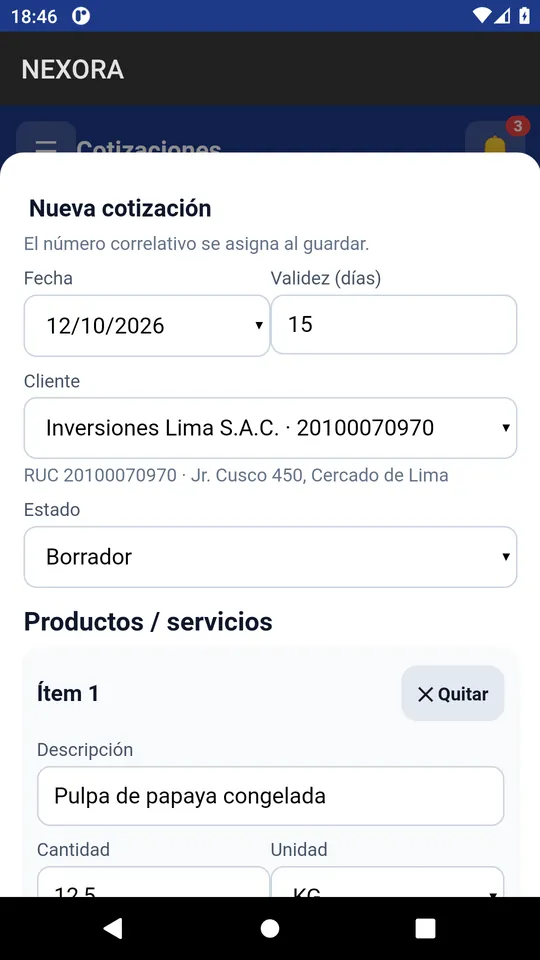
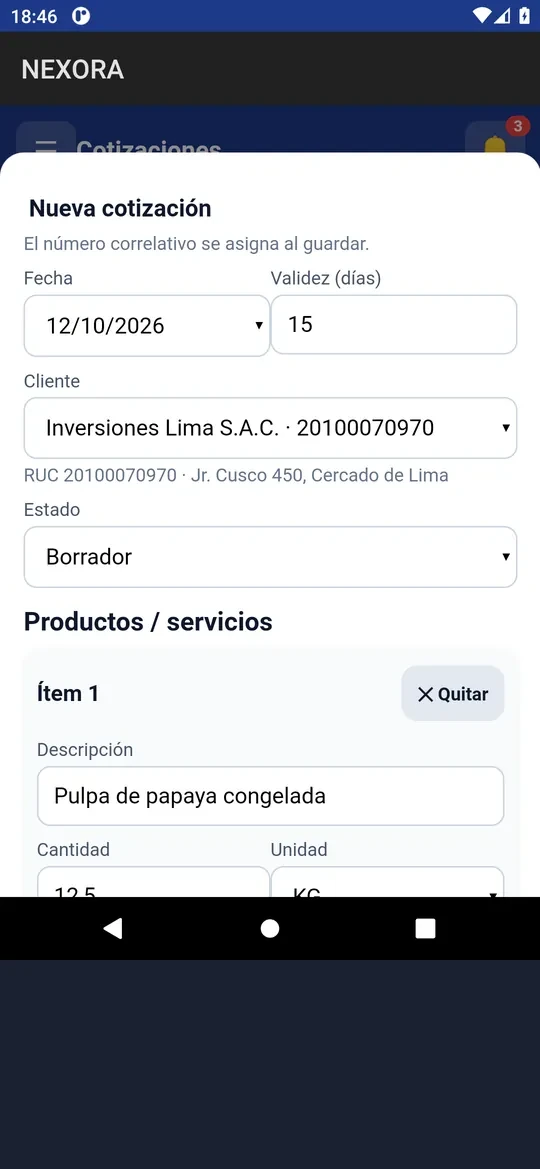
Fix NEXORA phone screenshots aspect ratio
Pad NEXORA captures to 540×1169 (same as PROCESA) so they fit the site phone frame without looking oversized.

diff --git a/index.html b/index.html
@@ -22,7 +22,7 @@
   <p class="lead">PROCESA, NEXORA y CortoStudio: apps Android en español para llevar tu planta, tu negocio y tus ideas un paso más allá.</p>
   <p class="cta"><a class="btn" href="#apps">Ver las apps</a><a class="more" href="#contacto">Escríbenos</a></p>
   <div class="stage">
-    <figure class="phone back"><img src="assets/img/nexora-cotizacion.webp" width="540" height="960" alt="NEXORA: nueva cotización para un cliente"></figure>
+    <figure class="phone back"><img src="assets/img/nexora-cotizacion.webp" width="540" height="1169" alt="NEXORA: nueva cotización para un cliente"></figure>
     <figure class="phone front"><img src="assets/img/procesa-diagrama.webp" width="540" height="1169" alt="PROCESA: diagrama de flujo HACCP de una mermelada, con sus puntos críticos de control" fetchpriority="high"></figure>
     <figure class="phone far"><img src="assets/img/corto-inicio.webp" width="540" height="1169" alt="CortoStudio: editar un cortometraje, con título, género y estilo visual"></figure>
   </div>
@@ -60,7 +60,7 @@
     <p class="meta">App para Android</p>
   </div>
   <div class="show rev">
-    <div class="shot"><figure class="phone "><img src="assets/img/nexora-cotizacion.webp" width="540" height="960" alt="NEXORA: formulario de nueva cotización" loading="lazy"></figure></div>
+    <div class="shot"><figure class="phone "><img src="assets/img/nexora-cotizacion.webp" width="540" height="1169" alt="NEXORA: formulario de nueva cotización" loading="lazy"></figure></div>
     <div class="list">
       <ul class="feats" aria-label="Funciones de NEXORA: toca una marcada para ver su pantalla"><li><button type="button" class="feat" data-shot="assets/img/nexora-cotizacion.webp" data-alt="NEXORA: formulario de nueva cotización" aria-pressed="true">Cotizaciones en PDF</button></li><li><span class="feat-plain">Facturas y boletas, con facturación electrónica SUNAT</span></li><li><button type="button" class="feat" data-shot="assets/img/nexora-guia.webp" data-alt="NEXORA: guía de remisión" aria-pressed="false">Guías de remisión</button></li><li><button type="button" class="feat" data-shot="assets/img/nexora-cxc.webp" data-alt="NEXORA: cuentas por cobrar de clientes" aria-pressed="false">Clientes y cuentas por cobrar</button></li><li><span class="feat-plain">Inventario con kardex</span></li><li><button type="button" class="feat" data-shot="assets/img/nexora-saldos.webp" data-alt="NEXORA: caja y saldos por cuenta bancaria" aria-pressed="false">Caja y cuentas bancarias</button></li><li><span class="feat-plain">Pagos recibidos por Yape y Plin</span></li><li><span class="feat-plain">Reportes mensuales en PDF y Excel, e impresión Bluetooth</span></li></ul>
       <p class="note">Las capturas muestran datos de ejemplo. <a href="privacidad-nexora.html">Política de privacidad de NEXORA</a></p>
